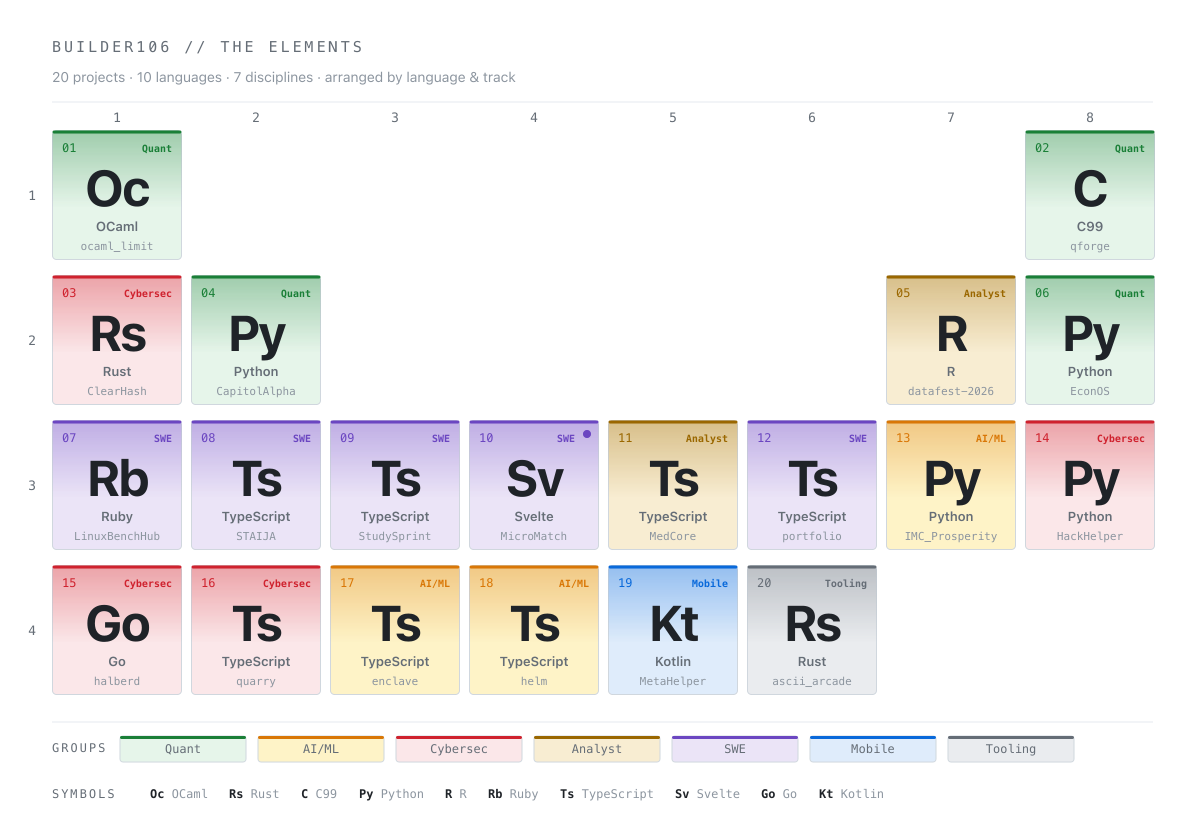
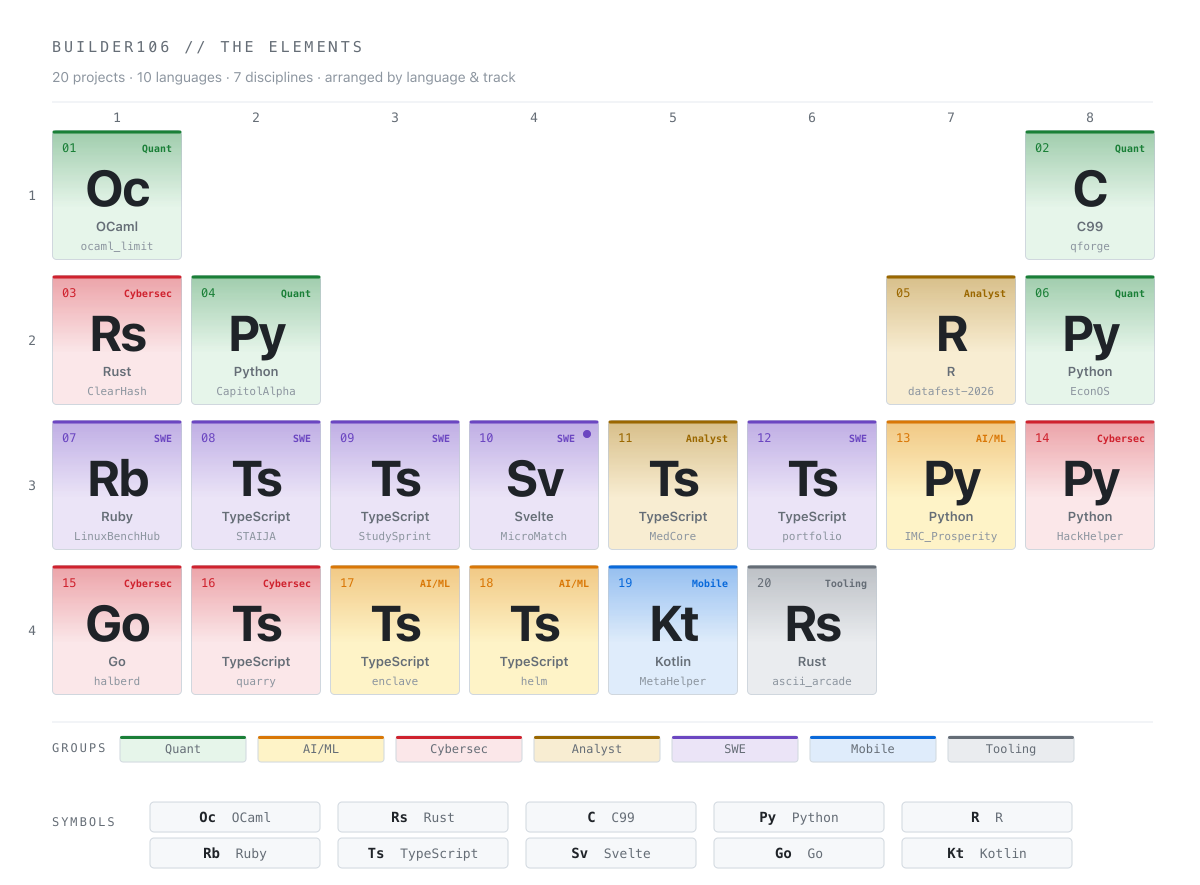
Enlarge symbols legend into a 2-row chip grid and bump cache keys

Changed region(s): [[0.0308, 0.0301, 0.9867, 0.994]]

diff --git a/assets/gen_cells.py b/assets/gen_cells.py
@@ -180,7 +180,7 @@ def unified_svg(theme):
     cell_text_faded = "#6e7681" if is_dark else "#8c959f"
     chrome_rule = "#262d36" if is_dark else "#e6eaef"
 
-    W, H = 1200, 830
+    W, H = 1200, 885
     MARGIN_L, MARGIN_TOP = 52, 130
     CELL_W, CELL_H = 130, 130
     COL_STRIDE, ROW_STRIDE = 139, 145
@@ -274,16 +274,22 @@ def unified_svg(theme):
         out.append(f'  </g>')
         chip_x += 138
 
-    sym_y = legend_y + 76
-    out.append(f'  <text x="52" y="{sym_y}" font-family="ui-monospace, SFMono-Regular, Menlo, monospace" font-size="12" fill="{muted}" letter-spacing="2">SYMBOLS</text>')
-    syms = [("Oc","OCaml"),("Rs","Rust"),("C","C99"),("Py","Python"),("R","R"),("Rb","Ruby"),("Ts","TypeScript"),("Sv","Svelte"),("Go","Go"),("Kt","Kotlin")]
-    # Monospace at 12px ≈ 7.2 px/char; "Sym Name" = len(sym) + 1 space + len(name)
-    char_w = 7.2
-    gap = 22
-    sx = 150
-    for sym, name in syms:
-        out.append(f'  <text x="{sx}" y="{sym_y}" font-family="ui-monospace, SFMono-Regular, Menlo, monospace" font-size="12" fill="{faded}"><tspan font-weight="700" fill="{fg}">{sym}</tspan> {name}</text>')
-        sx += int((len(sym) + 1 + len(name)) * char_w + gap)
+    sym_y = legend_y + 80
+    out.append(f'  <text x="52" y="{sym_y + 24}" font-family="ui-monospace, SFMono-Regular, Menlo, monospace" font-size="12" fill="{muted}" letter-spacing="2">SYMBOLS</text>')
+    syms_rows = [
+        [("Oc","OCaml"), ("Rs","Rust"), ("C","C99"), ("Py","Python"), ("R","R")],
+        [("Rb","Ruby"), ("Ts","TypeScript"), ("Sv","Svelte"), ("Go","Go"), ("Kt","Kotlin")]
+    ]
+    sym_chip_bg = "#161b22" if is_dark else "#f6f8fa"
+    for r_idx, row in enumerate(syms_rows):
+        cx = 150
+        cy = sym_y + r_idx * 36
+        for sym, name in row:
+            out.append(f'  <g transform="translate({cx}, {cy})">')
+            out.append(f'    <rect x="0" y="0" width="170" height="30" rx="4" fill="{sym_chip_bg}" stroke="{border}" stroke-width="1"/>')
+            out.append(f'    <text x="85" y="20" font-family="ui-monospace, SFMono-Regular, Menlo, monospace" font-size="13" text-anchor="middle"><tspan font-weight="700" font-size="14" fill="{fg}">{sym}</tspan> &#160;<tspan fill="{muted}">{name}</tspan></text>')
+            out.append(f'  </g>')
+            cx += 188
 
     out.append('</svg>')
     return "\n".join(out)
